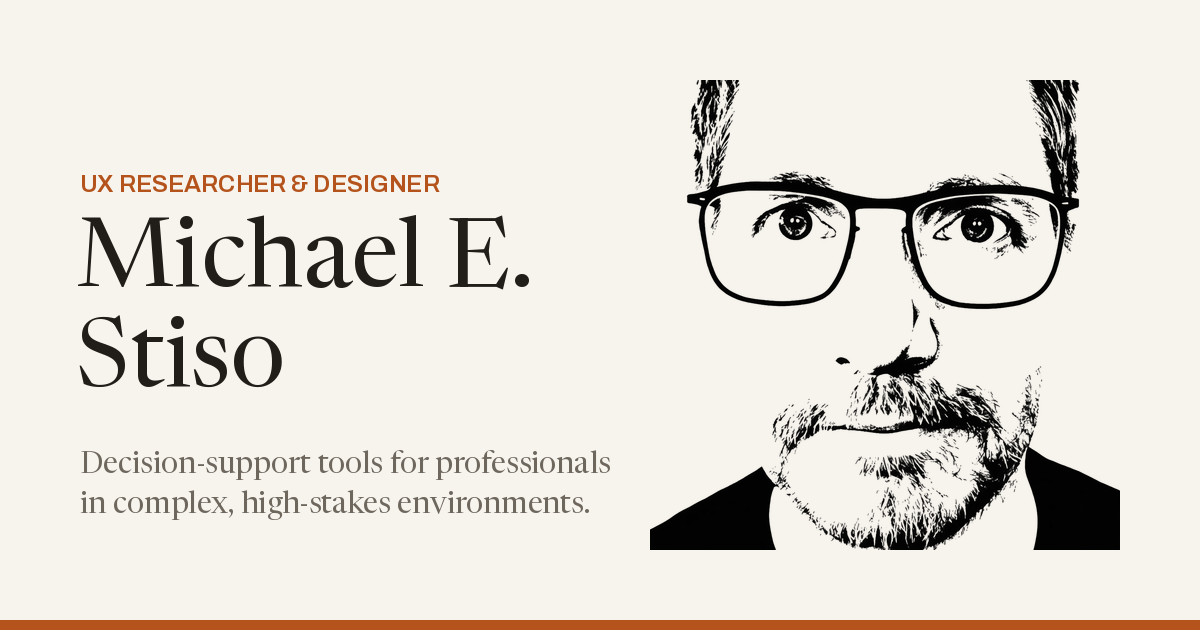
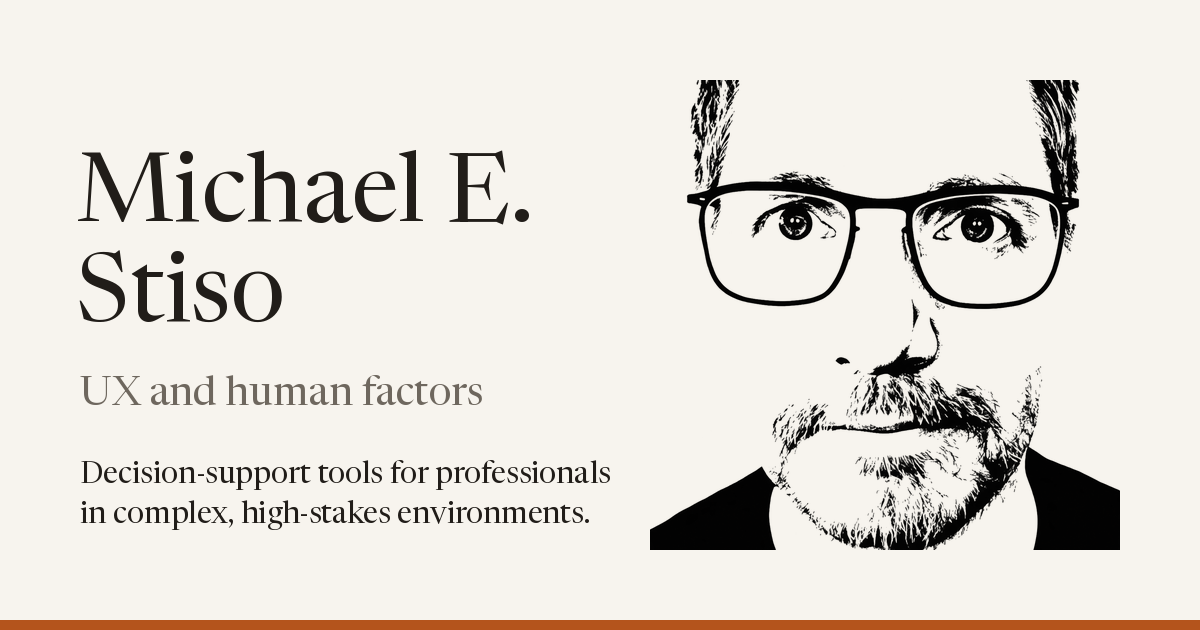
Tab title, search summary and link preview say UX and human factors
Claude-Session: https://claude.ai/code/session_011E2VMLXTzcUZypcEyQdLEQ

Changed region(s): [[0.0617, 0.2413, 0.4625, 0.6635], [0.0617, 0.7238, 0.5242, 0.8444]]

diff --git a/index.html b/index.html
@@ -6,14 +6,14 @@
        the live site; the old single-page home is kept as index-v1.html. -->
   <meta http-equiv="refresh" content="0; url=v2/">
   <script>location.replace('v2/' + location.hash);</script>
-  <title>Michael E. Stiso — UX Researcher &amp; Designer</title>
-  <meta name="description" content="Michael Stiso is a UX researcher and designer with a Ph.D. in cognitive psychology, designing decision-support tools for professionals in complex, high-stakes environments.">
+  <title>Michael E. Stiso — UX and human factors</title>
+  <meta name="description" content="Michael Stiso works in UX and human factors. With a Ph.D. in cognitive psychology, he designs decision-support tools for professionals in complex, high-stakes environments.">
   <link rel="canonical" href="https://ragamoffyn.github.io/website/v2/">
   <link rel="icon" href="v2/favicon.svg" type="image/svg+xml">
   <meta property="og:type" content="website">
   <meta property="og:site_name" content="Michael E. Stiso">
-  <meta property="og:title" content="Michael E. Stiso — UX Researcher &amp; Designer">
-  <meta property="og:description" content="Michael Stiso is a UX researcher and designer with a Ph.D. in cognitive psychology, designing decision-support tools for professionals in complex, high-stakes environments.">
+  <meta property="og:title" content="Michael E. Stiso — UX and human factors">
+  <meta property="og:description" content="Michael Stiso works in UX and human factors. With a Ph.D. in cognitive psychology, he designs decision-support tools for professionals in complex, high-stakes environments.">
   <meta property="og:url" content="https://ragamoffyn.github.io/website/">
   <meta property="og:image" content="https://ragamoffyn.github.io/website/v2/og-image.png">
   <meta property="og:image:width" content="1200">
@@ -21,6 +21,6 @@
   <meta name="twitter:card" content="summary_large_image">
 </head>
 <body>
-  <p><a href="v2/">Michael E. Stiso — UX Researcher &amp; Designer</a></p>
+  <p><a href="v2/">Michael E. Stiso — UX and human factors</a></p>
 </body>
 </html>

diff --git a/v2/index.html b/v2/index.html
@@ -3,14 +3,14 @@
 <head>
   <meta charset="UTF-8" />
   <meta name="viewport" content="width=device-width, initial-scale=1.0" />
-  <title>Michael Stiso, Ph.D. — UX Researcher &amp; Designer</title>
-  <meta name="description" content="Michael Stiso is a UX researcher and designer with a Ph.D. in cognitive psychology, designing decision-support tools for professionals in complex, high-stakes environments." />
+  <title>Michael Stiso, Ph.D. — UX and human factors</title>
+  <meta name="description" content="Michael Stiso works in UX and human factors. With a Ph.D. in cognitive psychology, he designs decision-support tools for professionals in complex, high-stakes environments." />
   <link rel="icon" href="favicon.svg" type="image/svg+xml" />
   <link rel="canonical" href="https://ragamoffyn.github.io/website/v2/" />
   <meta property="og:type" content="website" />
   <meta property="og:site_name" content="Michael E. Stiso" />
-  <meta property="og:title" content="Michael Stiso, Ph.D. — UX Researcher &amp; Designer" />
-  <meta property="og:description" content="Michael Stiso is a UX researcher and designer with a Ph.D. in cognitive psychology, designing decision-support tools for professionals in complex, high-stakes environments." />
+  <meta property="og:title" content="Michael Stiso, Ph.D. — UX and human factors" />
+  <meta property="og:description" content="Michael Stiso works in UX and human factors. With a Ph.D. in cognitive psychology, he designs decision-support tools for professionals in complex, high-stakes environments." />
   <meta property="og:url" content="https://ragamoffyn.github.io/website/v2/" />
   <meta property="og:image" content="https://ragamoffyn.github.io/website/v2/og-image.png" />
   <meta property="og:image:width" content="1200" />
